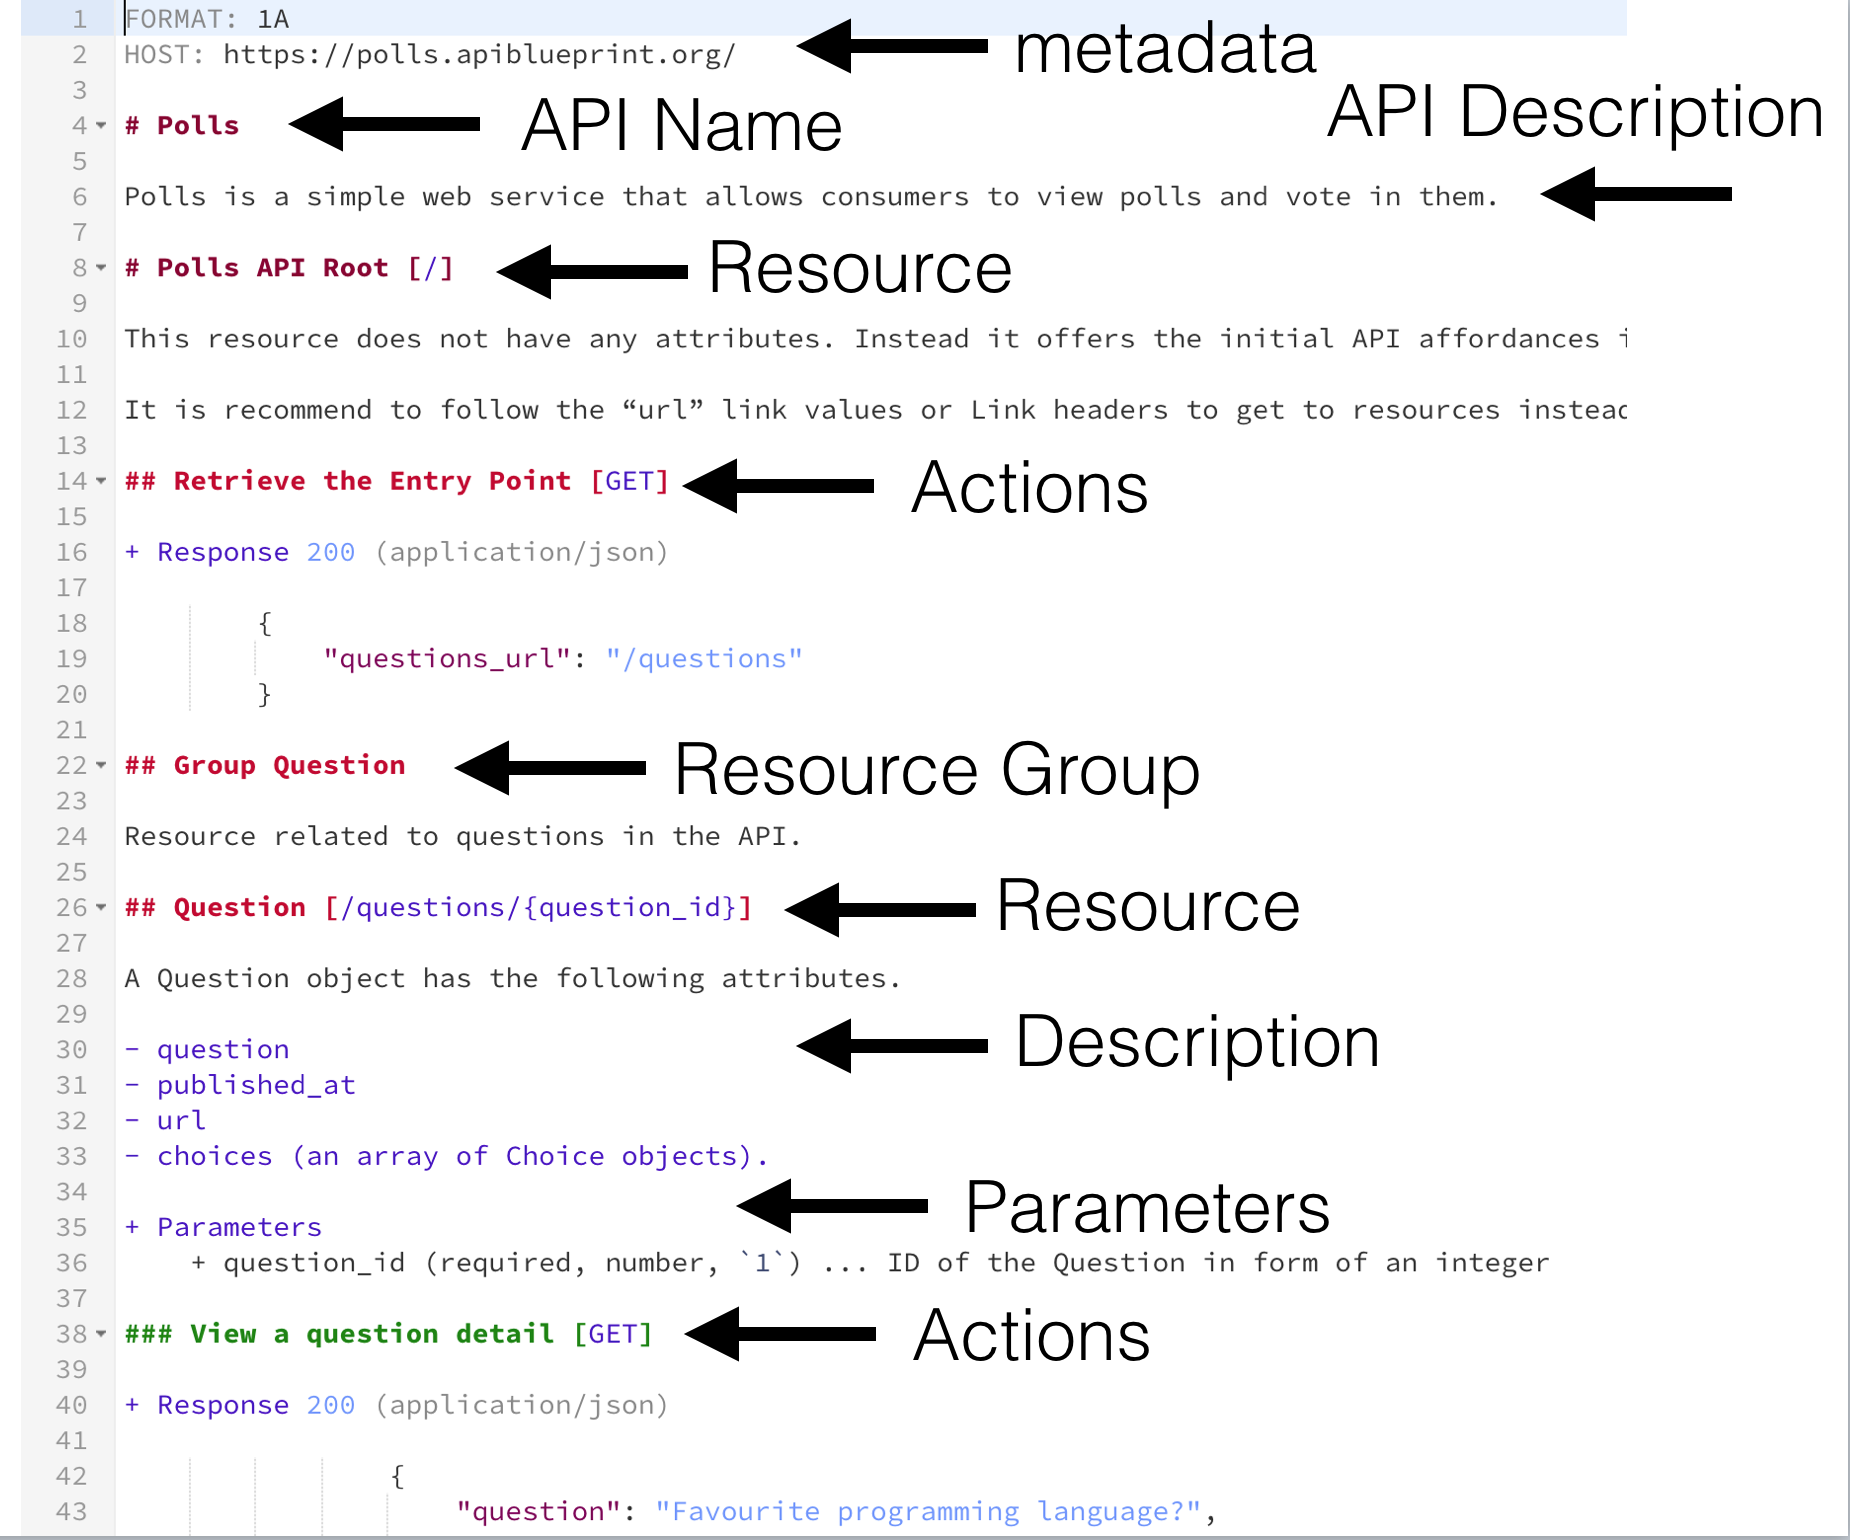
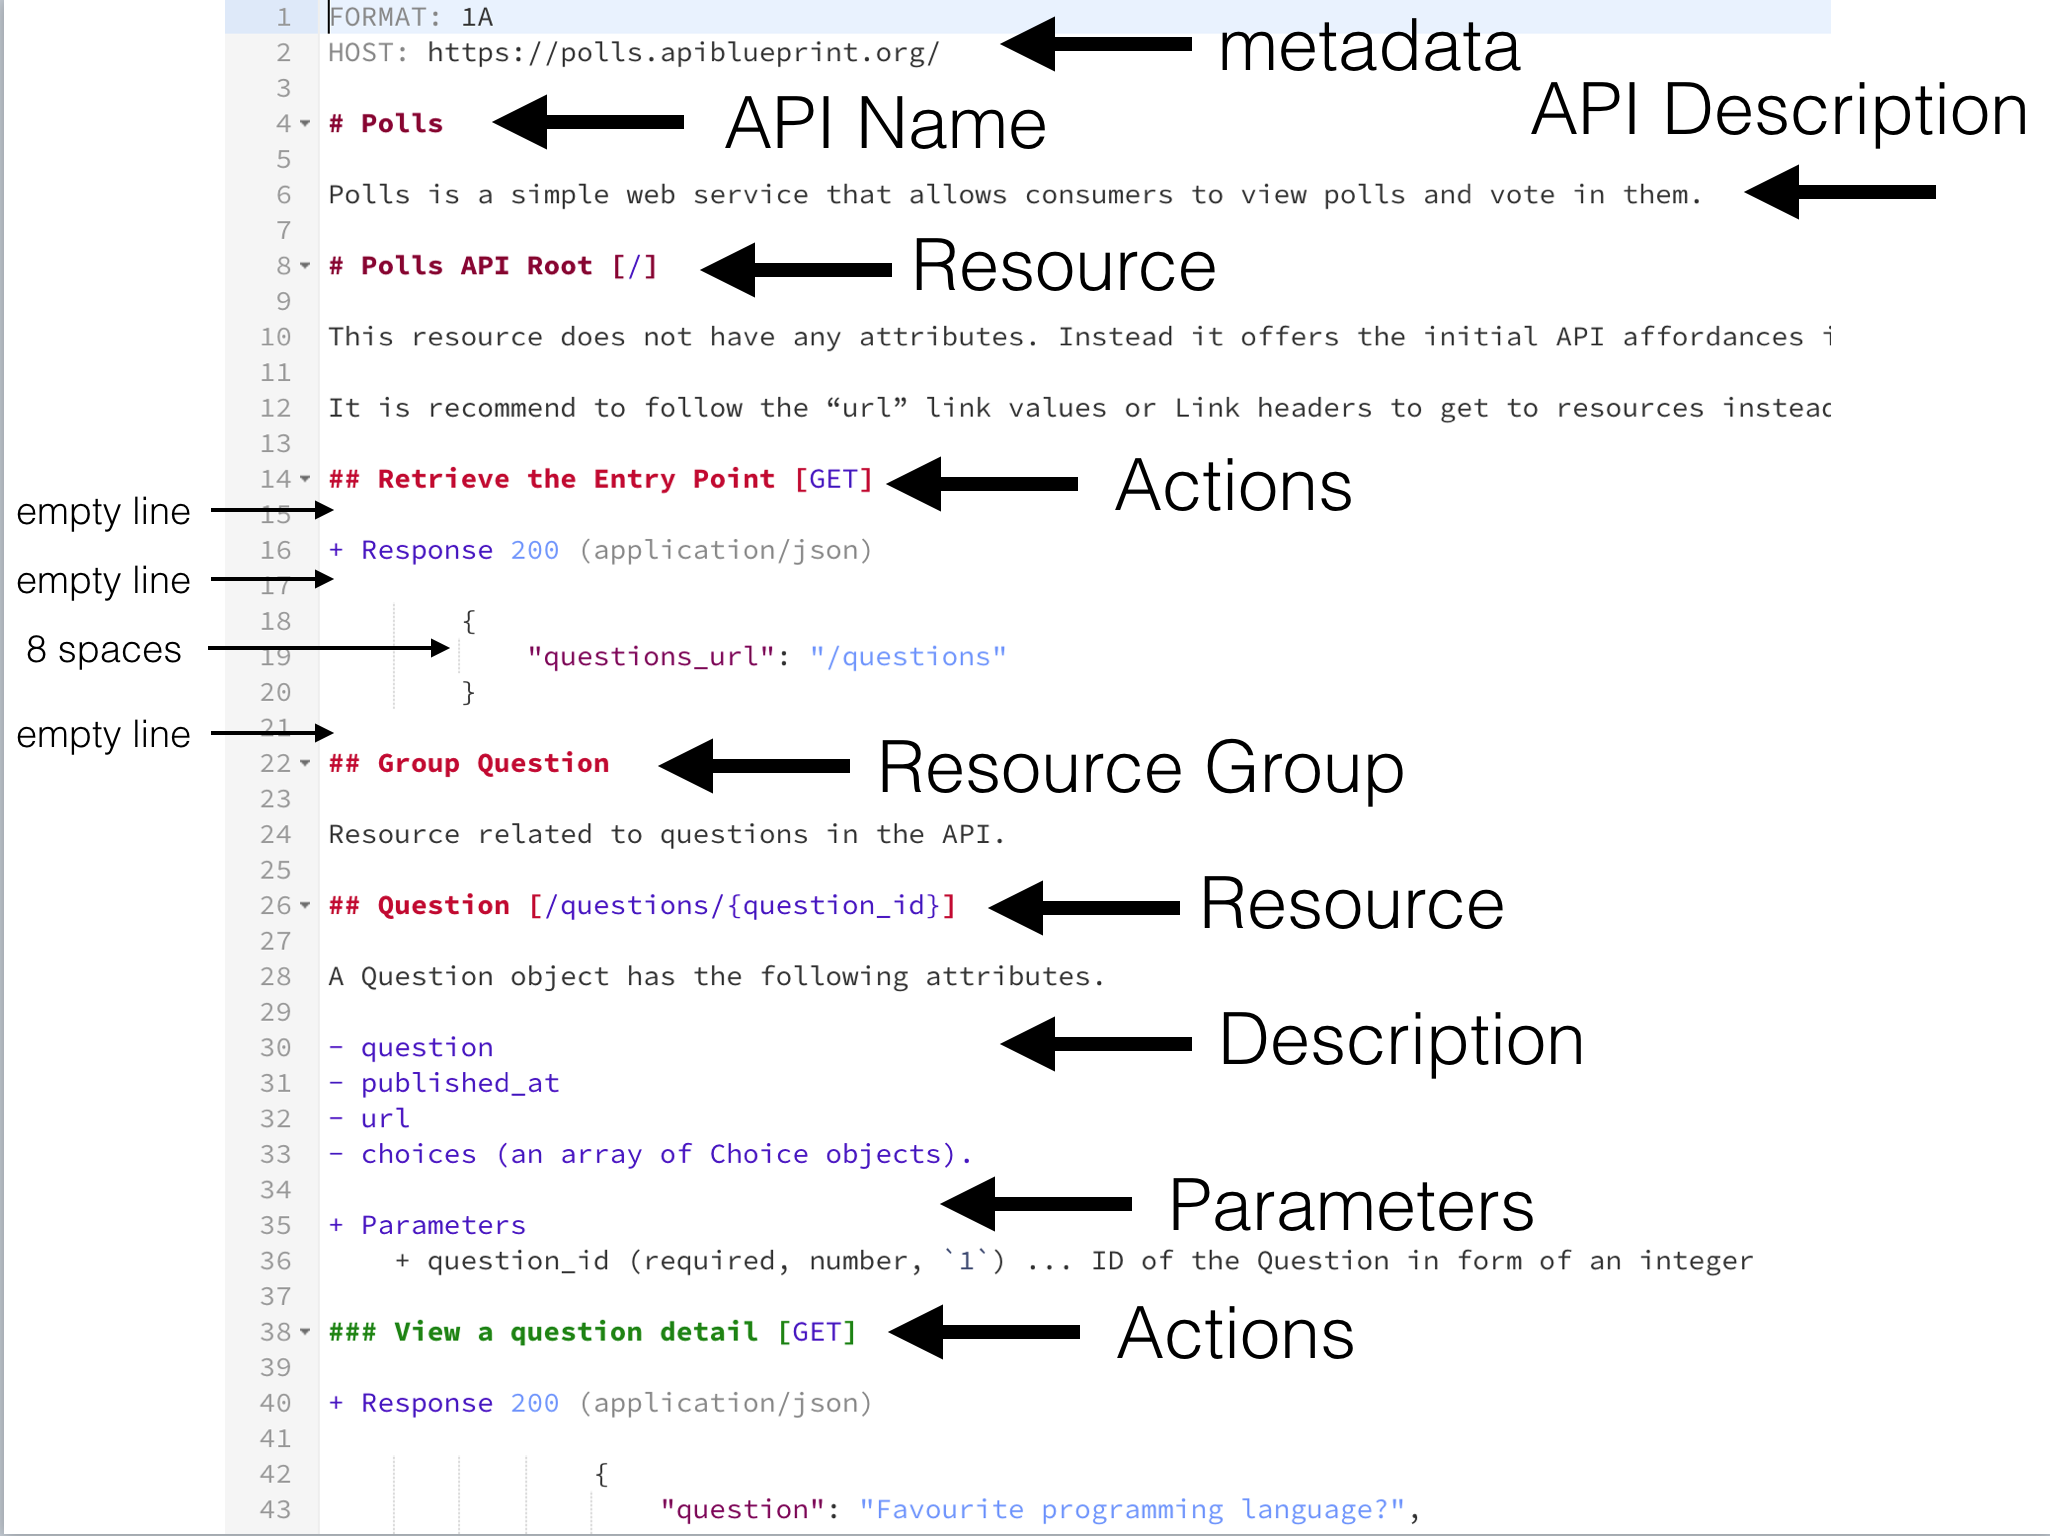
doc: add uri variables, add to image payload newlines and spaces

diff --git a/api-blueprint-cheatsheet.md b/api-blueprint-cheatsheet.md
@@ -3,7 +3,7 @@
 # API Blueprint Cheat Sheet
 
 [API Blueprint](http://apiblueprint.org) is a simple and accessible API description document language for everyone
-involved in the API design lifecycle. It is plain text based on Markdown.
+involved in the API design lifecycle. It is plain text based on Markdown. Recommended file extension for API Blueprint is `.apib`.
 
 ## Hello World
 
@@ -18,7 +18,7 @@ involved in the API design lifecycle. It is plain text based on Markdown.
 
 ![](./api-blueprint-cheatsheet-image.png)
 
-- __Metadata__ - The blueprint starts with a metadata section. In this case we have specified that FORMAT has the value of 1A. The format keyword denotes the version of the API Blueprint.
+- __Metadata__ - The blueprint starts with a metadata section. In this case we have specified that `FORMAT` has the value of `1A`. The format keyword denotes the version of the API Blueprint.
 - __API Name & Description__ - The first heading in the blueprint serves as the name of your API, which in this case is "Polls". Headings start with one or more # symbols followed by a title. The API Name here uses one hash to distinguish it as the first level. The number of # you use will determine the level of the heading. Following the heading is a description of the API. You may use further headings to break up the description section.
 
 ```
@@ -44,6 +44,14 @@ Resources related to questions in the API.
 ```
 
 - __URI Template__ - The URI for the “Question” resource uses a variable component, expressed by URI Template. In this case, there is an ID variable called question_id, represented in the URI template as {question_id}.
+
+- __URI Template Variable__ - Variable names are case-sensitive. The variable name may consists of following characters only:
+
+    - ASCII alpha numeric characters (a-z, A-Z), Decimal digits (0-9), `_`, `.`, Percent-encoded characters
+    - _Variable Reserved Values_ - `: / / / ? / # / [ / ] / @ / ! / $ / & / ' / ( / ) / * / + / , / ; / =`
+    - _Form-style Query Variable_
+        - To define variables for a form-style query use the question mark (?) operator `/path/to/resources/{varone}{?vartwo}`
+        - To continue a form-style query use the ampersand (&) operator: `/path/to/resources/{varone}?path=test{&vartwo,varthree}`
 
 - __URI Parameters__ - URI parameters should describe the URI using a list of Parameters. For “Question” it would be as follows:
 
@@ -145,9 +153,6 @@ Then, use and reuse the data in your API endpoints.
 ```
 
 ## FAQ
-
-+ How to describe query parameters?
-
 
 + How to describe response with no body?
 
